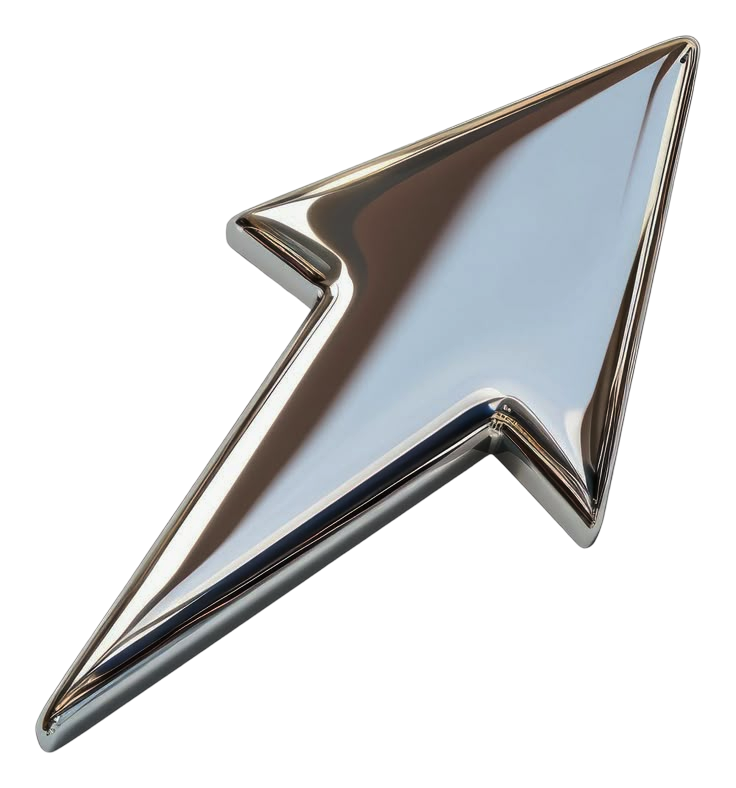
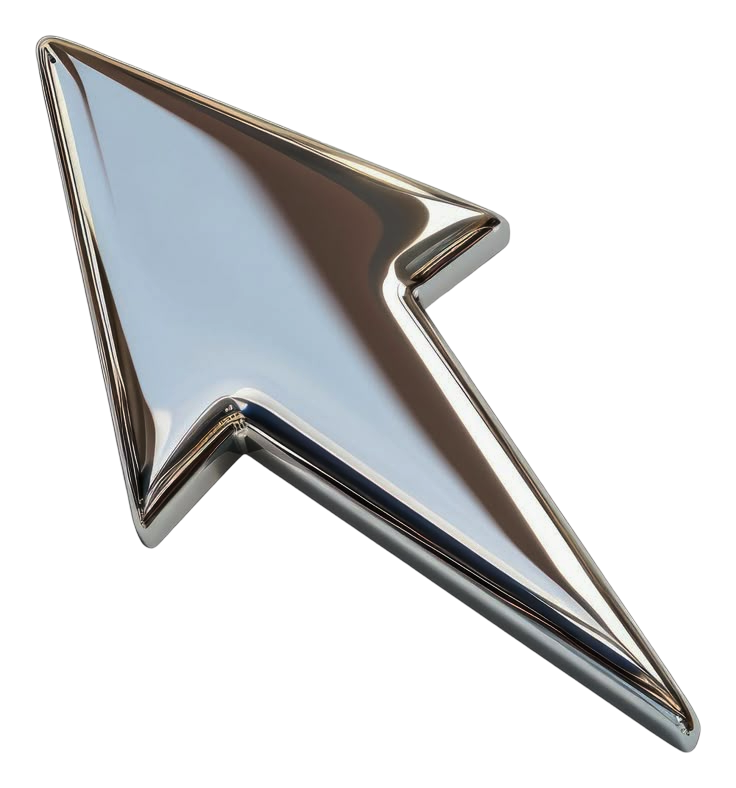
feat: flip cursor to point left naturally, scale up (1.4x), and add micro wiggle physics on hover

diff --git a/src/components/ui/SmoothCursor.tsx b/src/components/ui/SmoothCursor.tsx
@@ -7,6 +7,7 @@ import gsap from "gsap";
 export default function SmoothCursor() {
   const cursorRef = useRef<HTMLDivElement>(null);
   const iconRef = useRef<HTMLDivElement>(null);
+  const wiggleTlRef = useRef<gsap.core.Timeline | null>(null);
 
   useEffect(() => {
     // Only enable on desktop pointer devices
@@ -20,19 +21,51 @@ export default function SmoothCursor() {
 
     let isVisible = false;
     let isHovered = false;
-    let isPressed = false;
 
     // Use GSAP quickTo for ultra-smooth buttery inertia tracking
-    const xTo = gsap.quickTo(cursor, "x", { duration: 0.18, ease: "power3.out" });
-    const yTo = gsap.quickTo(cursor, "y", { duration: 0.18, ease: "power3.out" });
+    const xTo = gsap.quickTo(cursor, "x", { duration: 0.16, ease: "power3.out" });
+    const yTo = gsap.quickTo(cursor, "y", { duration: 0.16, ease: "power3.out" });
 
-    // Center icon offset (32px width/height -> offset 2px to align pointer tip)
     gsap.set(cursor, { xPercent: 0, yPercent: 0, opacity: 0 });
+
+    const startWiggle = () => {
+      if (wiggleTlRef.current) wiggleTlRef.current.kill();
+
+      // Slightly big cursor scale (1.4x) with stylish micro wiggle
+      gsap.to(icon, {
+        scale: 1.4,
+        duration: 0.3,
+        ease: "back.out(2)",
+      });
+
+      const tl = gsap.timeline({ repeat: -1 });
+      tl.to(icon, { rotation: -10, duration: 0.12, ease: "sine.inOut" })
+        .to(icon, { rotation: 10, duration: 0.14, ease: "sine.inOut" })
+        .to(icon, { rotation: -6, duration: 0.12, ease: "sine.inOut" })
+        .to(icon, { rotation: 6, duration: 0.12, ease: "sine.inOut" })
+        .to(icon, { rotation: 0, duration: 0.14, ease: "sine.inOut" });
+
+      wiggleTlRef.current = tl;
+    };
+
+    const stopWiggle = () => {
+      if (wiggleTlRef.current) {
+        wiggleTlRef.current.kill();
+        wiggleTlRef.current = null;
+      }
+
+      gsap.to(icon, {
+        scale: 1,
+        rotation: 0,
+        duration: 0.28,
+        ease: "power2.out",
+      });
+    };
 
     const handleMouseMove = (e: MouseEvent) => {
       if (!isVisible) {
         isVisible = true;
-        gsap.to(cursor, { opacity: 1, duration: 0.25, ease: "power2.out" });
+        gsap.to(cursor, { opacity: 1, duration: 0.2, ease: "power2.out" });
       }
 
       xTo(e.clientX);
@@ -51,54 +84,51 @@ export default function SmoothCursor() {
           target.closest(".product-card") ||
           target.closest("[data-card]") ||
           target.closest(".cursor-pointer") ||
+          target.closest(".btn-bagify") ||
           window.getComputedStyle(target).cursor === "pointer";
 
         if (isClickable && !isHovered) {
           isHovered = true;
-          gsap.to(icon, {
-            scale: 1.25,
-            rotation: 6,
-            duration: 0.35,
-            ease: "back.out(2)",
-          });
+          startWiggle();
         } else if (!isClickable && isHovered) {
           isHovered = false;
-          gsap.to(icon, {
-            scale: 1,
-            rotation: 0,
-            duration: 0.3,
-            ease: "power2.out",
-          });
+          stopWiggle();
         }
       }
     };
 
     const handleMouseDown = () => {
-      isPressed = true;
       gsap.to(icon, {
-        scale: 0.88,
-        duration: 0.15,
+        scale: 0.9,
+        duration: 0.12,
         ease: "power2.out",
       });
     };
 
     const handleMouseUp = () => {
-      isPressed = false;
-      gsap.to(icon, {
-        scale: isHovered ? 1.25 : 1,
-        duration: 0.25,
-        ease: "back.out(1.8)",
-      });
+      if (isHovered) {
+        gsap.to(icon, {
+          scale: 1.4,
+          duration: 0.2,
+          ease: "back.out(2)",
+        });
+      } else {
+        gsap.to(icon, {
+          scale: 1,
+          duration: 0.2,
+          ease: "power2.out",
+        });
+      }
     };
 
     const handleMouseLeave = () => {
       isVisible = false;
-      gsap.to(cursor, { opacity: 0, duration: 0.25, ease: "power2.out" });
+      gsap.to(cursor, { opacity: 0, duration: 0.2, ease: "power2.out" });
     };
 
     const handleMouseEnter = () => {
       isVisible = true;
-      gsap.to(cursor, { opacity: 1, duration: 0.25, ease: "power2.out" });
+      gsap.to(cursor, { opacity: 1, duration: 0.2, ease: "power2.out" });
     };
 
     window.addEventListener("mousemove", handleMouseMove, { passive: true });
@@ -108,6 +138,7 @@ export default function SmoothCursor() {
     document.addEventListener("mouseenter", handleMouseEnter);
 
     return () => {
+      if (wiggleTlRef.current) wiggleTlRef.current.kill();
       window.removeEventListener("mousemove", handleMouseMove);
       window.removeEventListener("mousedown", handleMouseDown);
       window.removeEventListener("mouseup", handleMouseUp);
@@ -124,7 +155,7 @@ export default function SmoothCursor() {
     >
       <div
         ref={iconRef}
-        className="relative w-8 h-8 -translate-x-[2px] -translate-y-[2px] transition-filter duration-300 drop-shadow-[0_2px_8px_rgba(0,0,0,0.18)]"
+        className="relative w-8 h-8 -translate-x-[2px] -translate-y-[2px] drop-shadow-[0_3px_10px_rgba(0,0,0,0.22)]"
       >
         <Image
           src="/cursor-32.png"
